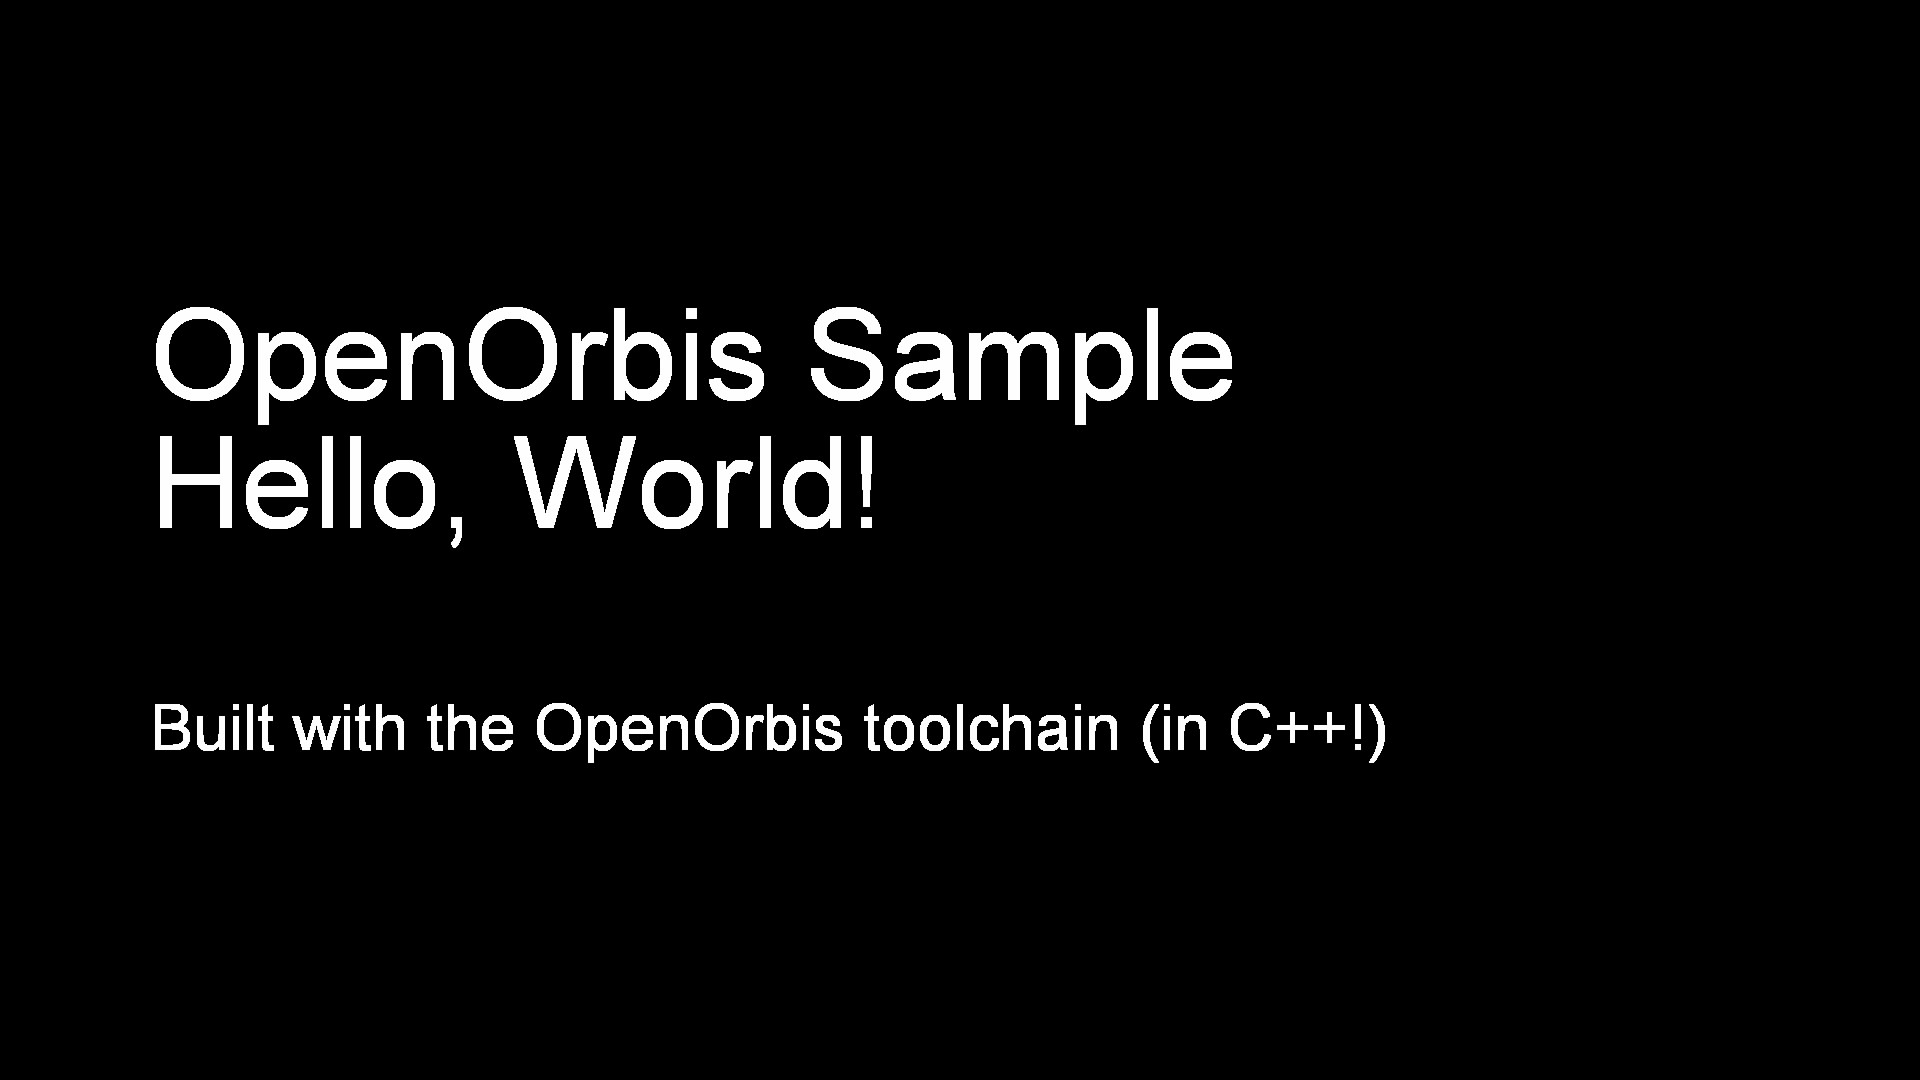
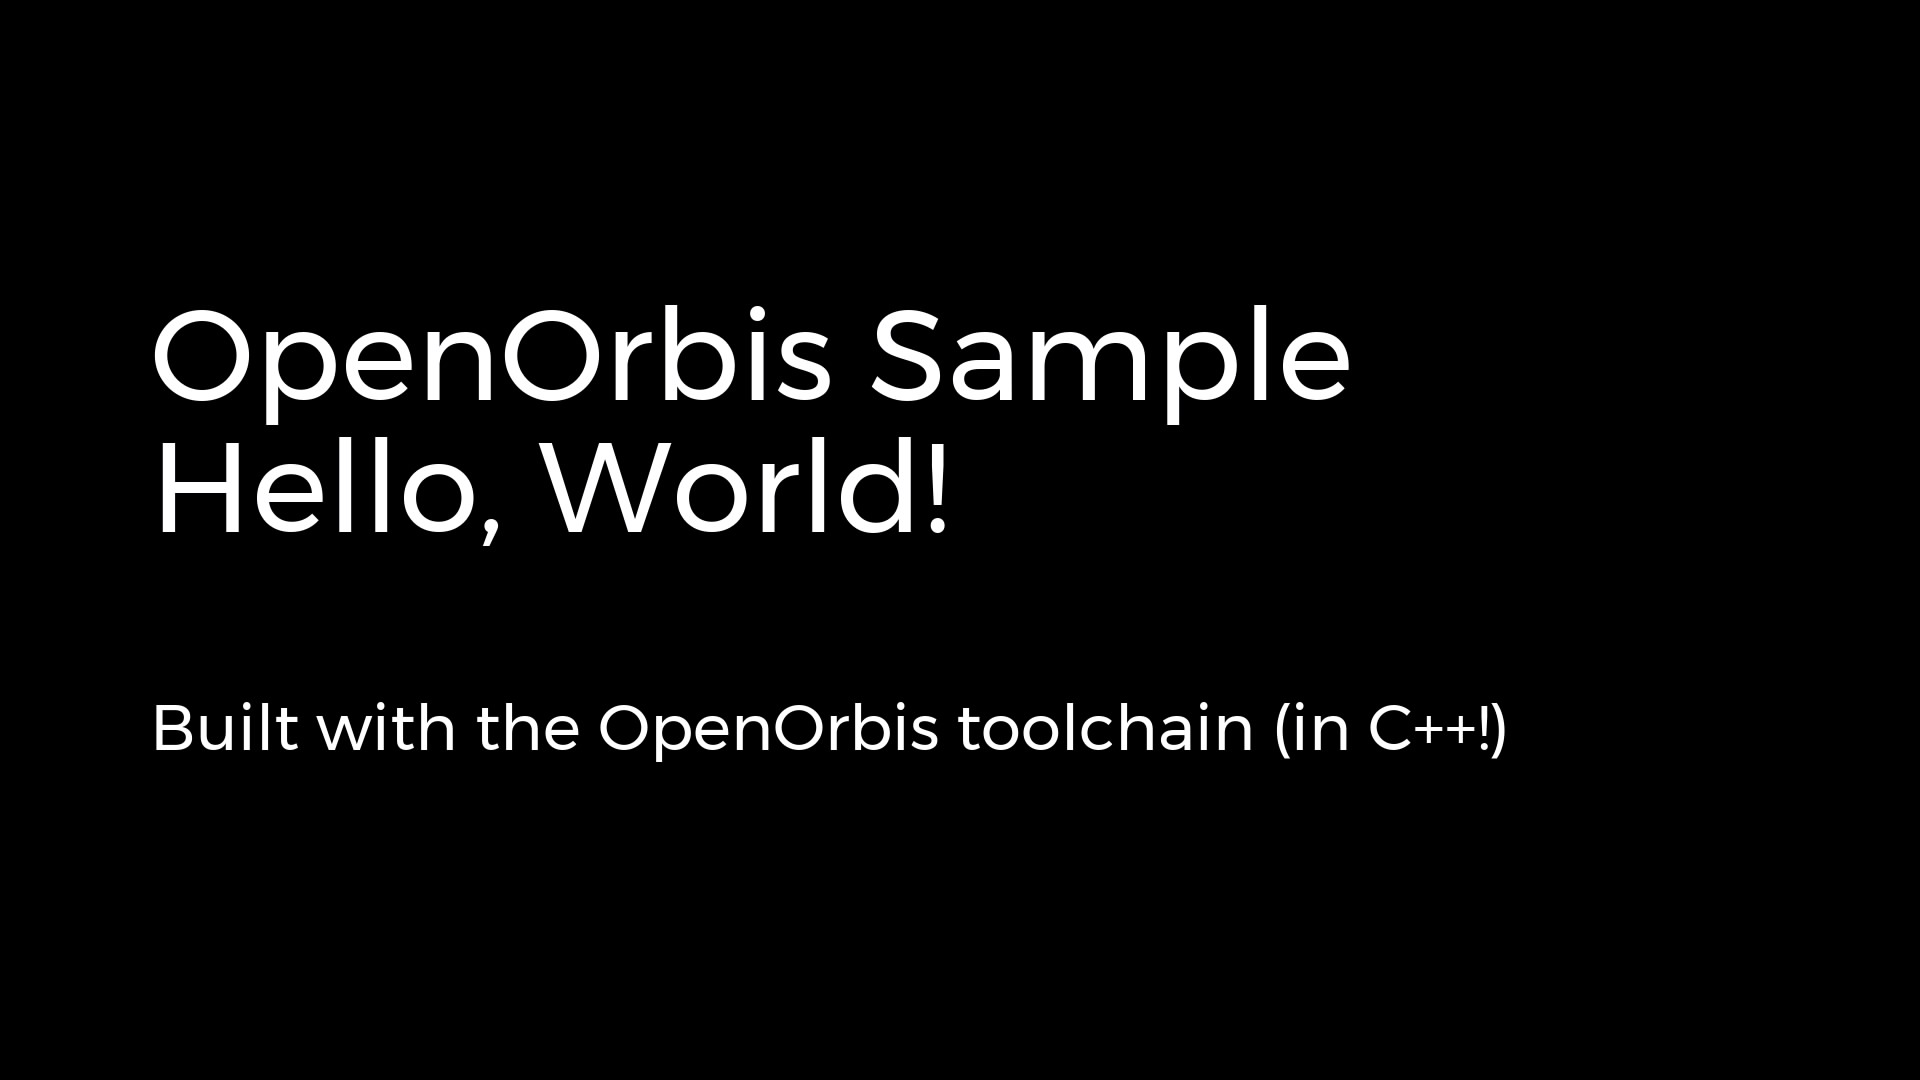
Fix jagged text rendering in graphics.cpp #67

Changed region(s): [[0.0625, 0.275, 0.7188, 0.5194], [0.0938, 0.6417, 0.7812, 0.7028], [0.0938, 0.275, 0.125, 0.3056]]

diff --git a/samples/_common/graphics.cpp b/samples/_common/graphics.cpp
@@ -8,12 +8,6 @@
 #include "graphics.h"
 #include "log.h"
 
-// Linearly interpolate x with y over s
-inline float lerp(float x, float y, float s)
-{
-    return x * (1.0f - s) + y * s;
-}
-
 Scene2D::Scene2D(int w, int h, int pixelDepth)
 {
 	this->width = w;
@@ -313,9 +307,9 @@ void Scene2D::DrawText(char *txt, FT_Face face, int startX, int startY, Color bg
                 int y = startY + yPos + yOffset - slot->bitmap_top;
 
                 // Linearly interpolate between the foreground and background for smoother rendering
-                uint8_t r = lerp(float(fgColor.r), float(bgColor.r), 255.0f);
-                uint8_t g = lerp(float(fgColor.g), float(bgColor.g), 255.0f);
-                uint8_t b = lerp(float(fgColor.b), float(bgColor.b), 255.0f);
+				uint8_t r = (pixel * fgColor.r) / 255;
+				uint8_t g = (pixel * fgColor.g) / 255;
+				uint8_t b = (pixel * fgColor.b) / 255;
 
                 // Create new color struct with lerp'd values
                 Color finalColor = { r, g, b };
